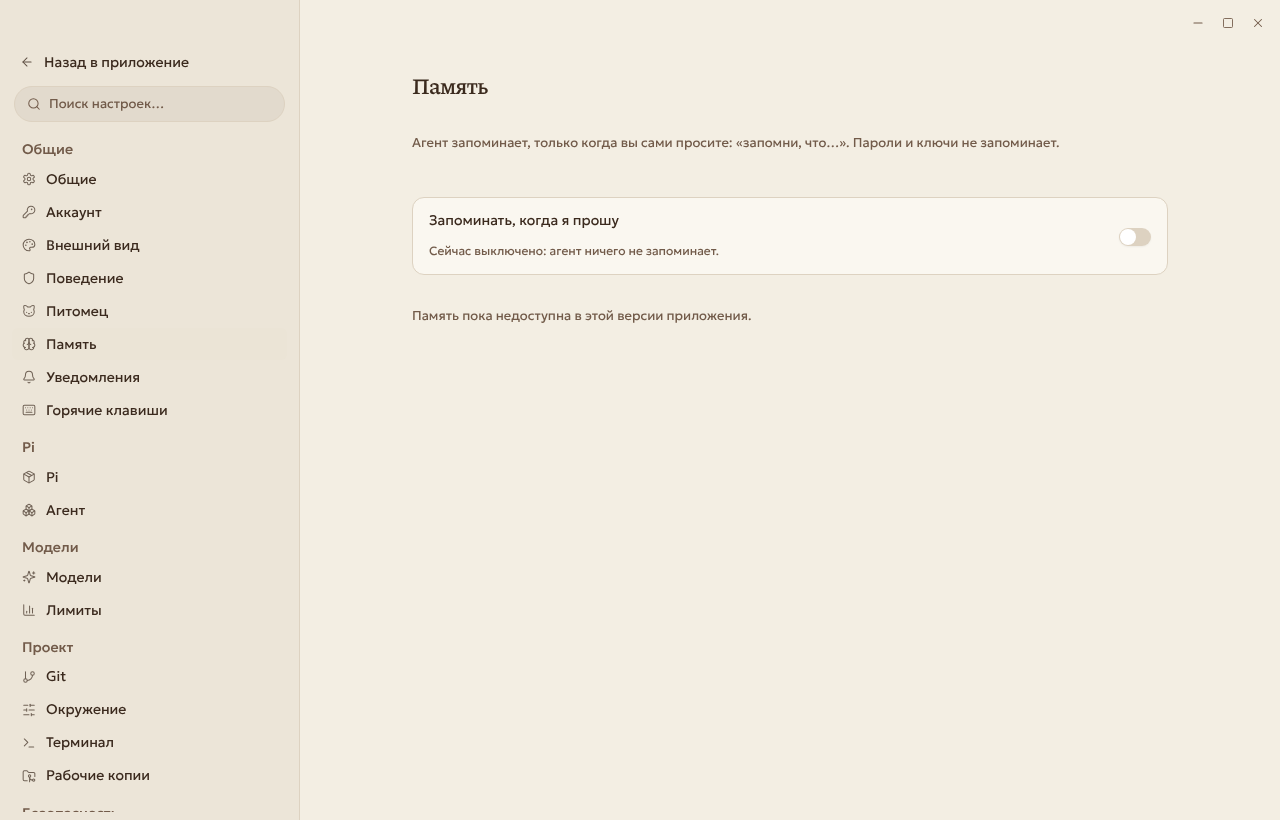
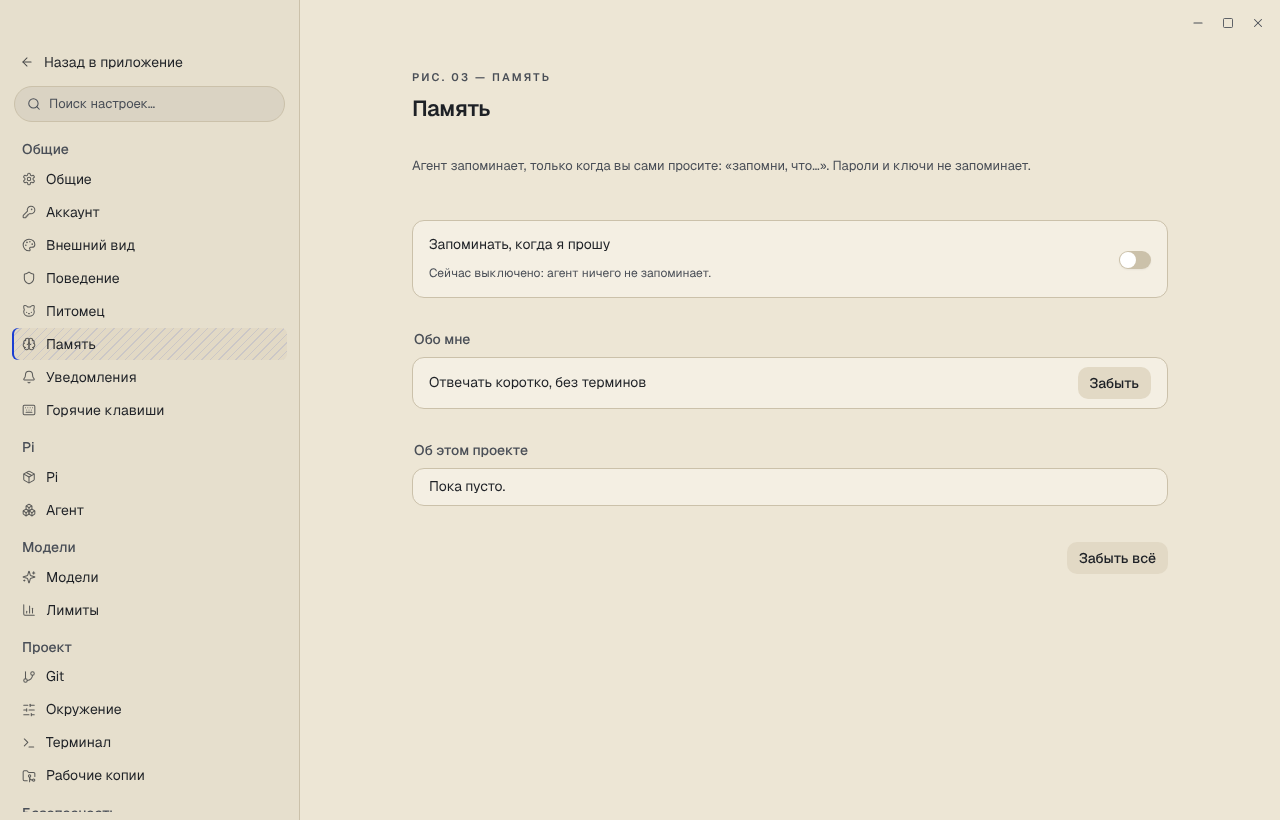
e2e memory on real files: «Забыть»/«Вернуть» from the card and the panel, «Забыть всё»
Claude-Session: https://claude.ai/code/session_01GG4JyNbTxXQ2tDJfnbFMH6

diff --git a/app/apps/desktop/e2e/features-memory.spec.ts b/app/apps/desktop/e2e/features-memory.spec.ts
@@ -69,3 +69,62 @@ test("a memory card in the chat and the «Память» settings", async () => 
     await closeLaunched(launched);
   }
 });
+
+test("«Забыть» and «Вернуть» from the card and the panel, «Забыть всё», on real files", async () => {
+  const launched = await launchRu({
+    tools: "read,memory",
+    toolCall: {
+      name: "memory",
+      arguments: {
+        action: "remember",
+        scope: "user",
+        text: "Звать меня Аня",
+        quote: "зови меня Аня, пожалуйста",
+      },
+    },
+    env: { PRSLOY_MEMORY: "1" },
+  });
+  const userFile = join(launched.agentDir, "prsloy-memory", "user.json");
+  const onDisk = async () => JSON.parse(await readFile(userFile, "utf8"));
+  try {
+    const { page } = launched;
+    await startHost(page);
+    await sendPrompt(page, "Use the tool: зови меня Аня, пожалуйста");
+    await waitSettled(page);
+    const card = page.getByTestId("memory-card");
+    await expect(card).toContainText("Запомнил: Звать меня Аня");
+
+    // The card: «Забыть» → «Забыл.» [Вернуть] → «Вернул.», each on disk.
+    await card.getByTestId("memory-card-forget").click();
+    await expect(card).toContainText("Забыл.");
+    await expect.poll(async () => (await onDisk()).entries.length).toBe(0);
+    await shot(page, "memory-4-card-forgot");
+    await card.getByTestId("memory-card-restore").click();
+    await expect(card).toContainText("Вернул.");
+    await expect.poll(async () => (await onDisk()).entries.map((e: { text: string }) => e.text)).toEqual([
+      "Звать меня Аня",
+    ]);
+    expect((await onDisk()).tombstones).toEqual([]);
+
+    // The panel: «Забыть» → «Недавно забыто» → «Вернуть».
+    await page.getByTestId("nav-settings").click();
+    await page.getByTestId("settings-nav-memory").click();
+    await expect(page.getByTestId("memory-user")).toContainText("Звать меня Аня");
+    await page.getByTestId("memory-user-forget").click();
+    await expect(page.getByTestId("memory-forgotten")).toContainText("Звать меня Аня");
+    await page.getByTestId("memory-forgotten-restore").click();
+    await expect(page.getByTestId("memory-user")).toContainText("Звать меня Аня");
+    await expect.poll(async () => (await onDisk()).entries.length).toBe(1);
+
+    // «Забыть всё» only after the confirm; then nothing is left.
+    await page.getByTestId("memory-forget-all").click();
+    const confirm = page.getByTestId("memory-forget-all-confirm");
+    await expect(confirm).toContainText("Отменить нельзя");
+    await shot(page, "memory-5-forget-all");
+    await confirm.getByRole("button", { name: "Забыть всё" }).click();
+    await expect(page.getByTestId("memory-user")).toContainText("Пока пусто.");
+    await expect.poll(async () => (await onDisk()).entries.length).toBe(0);
+  } finally {
+    await closeLaunched(launched);
+  }
+});
